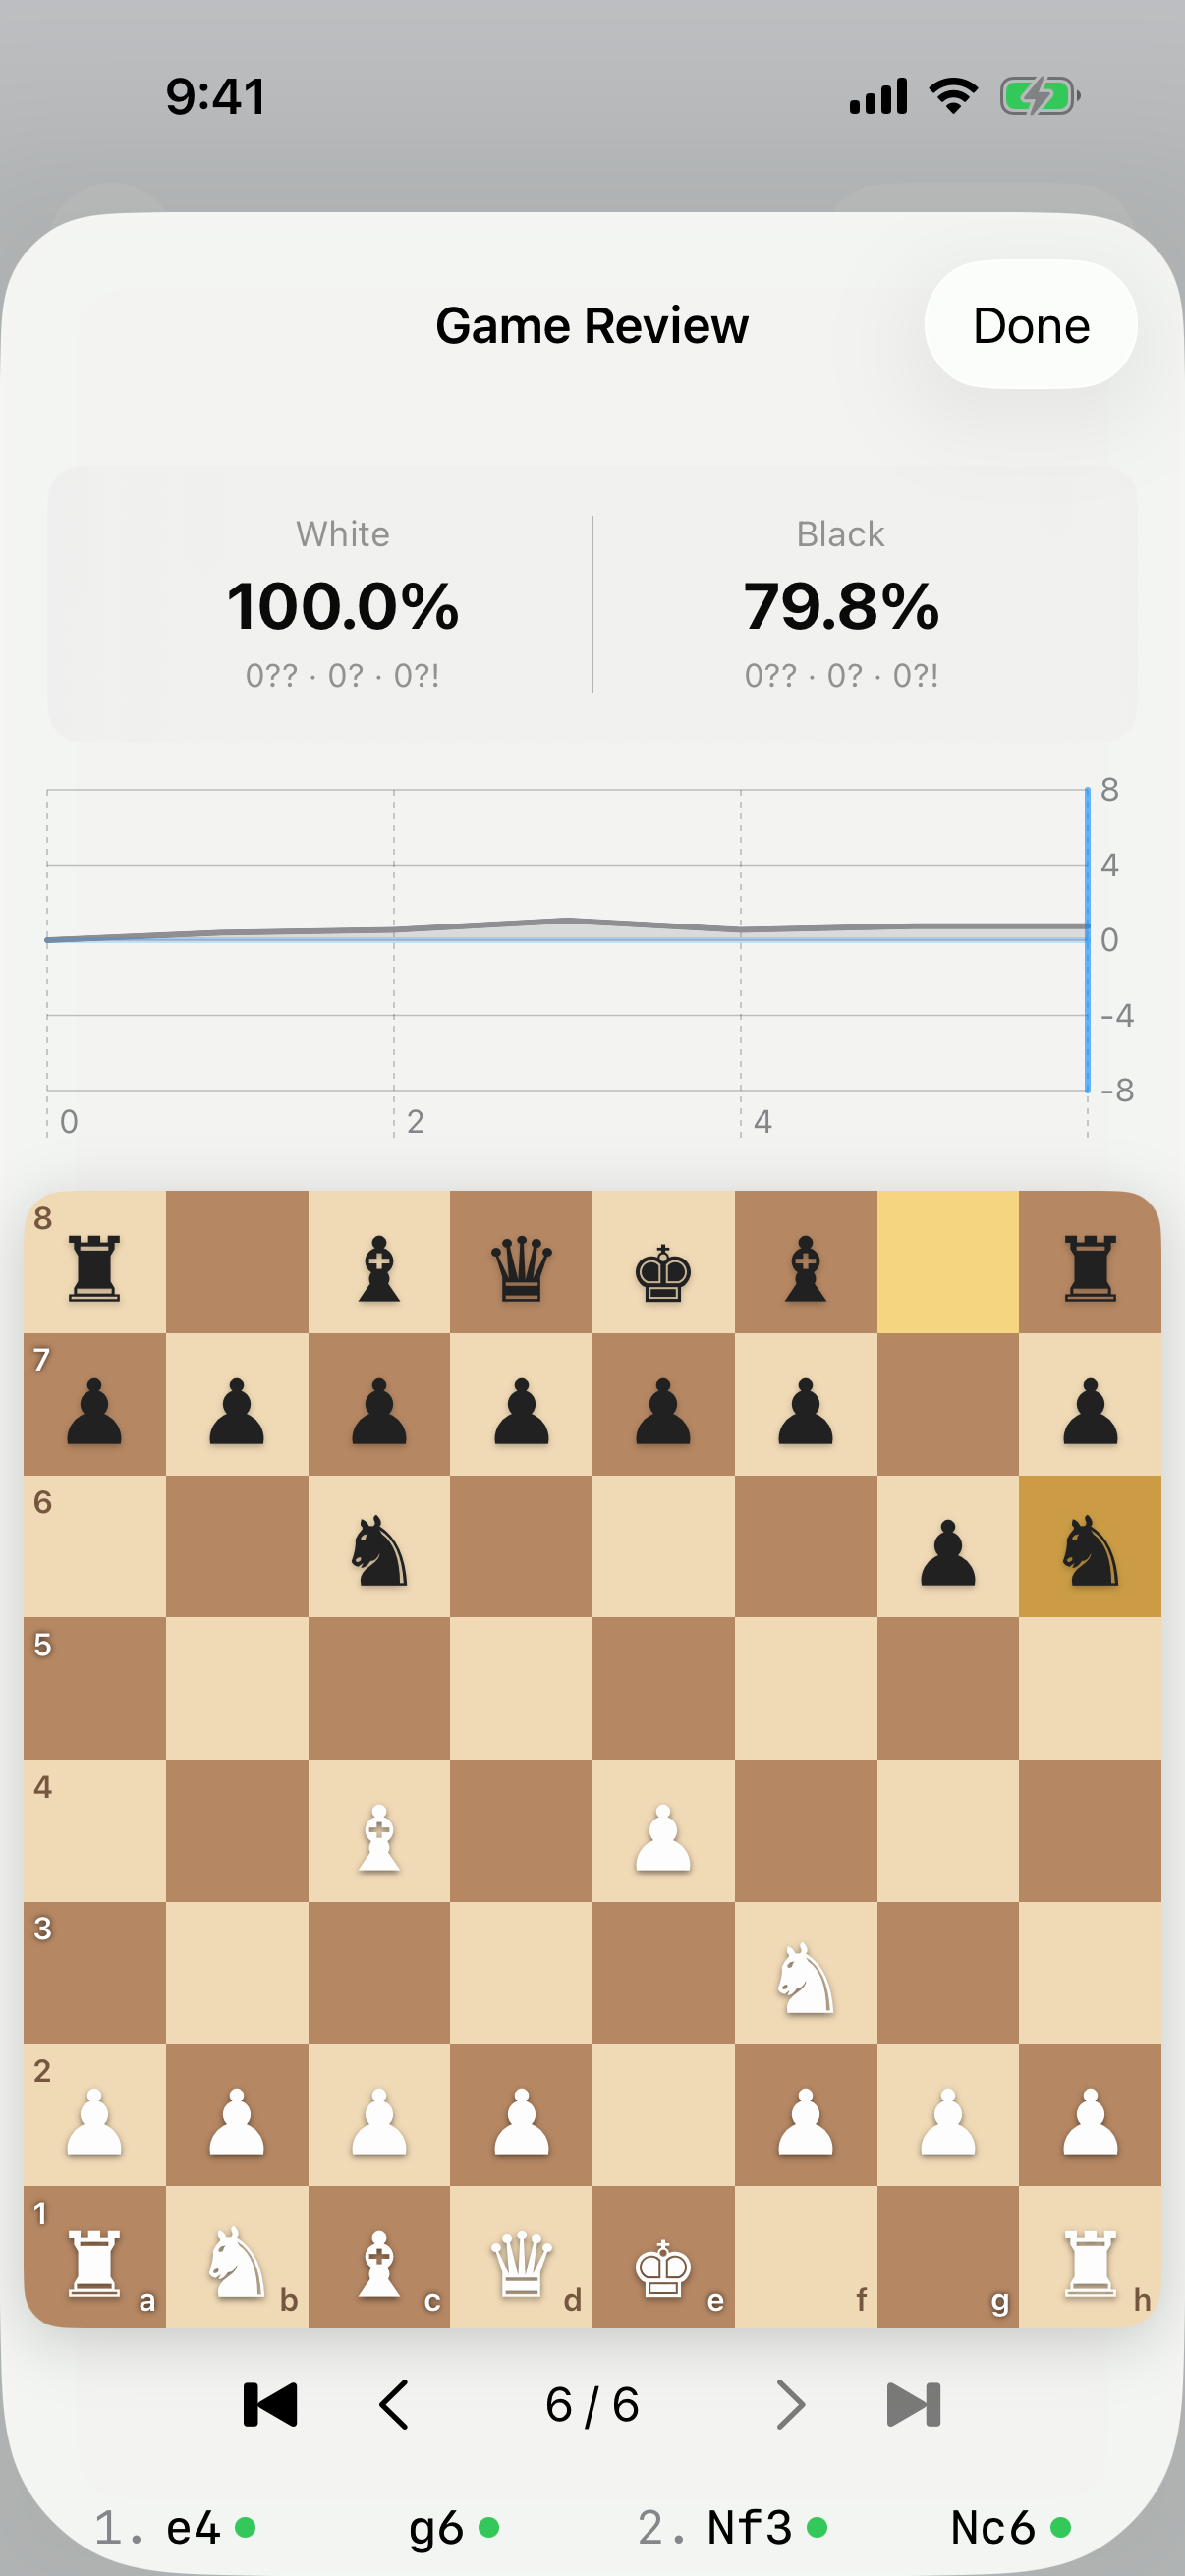
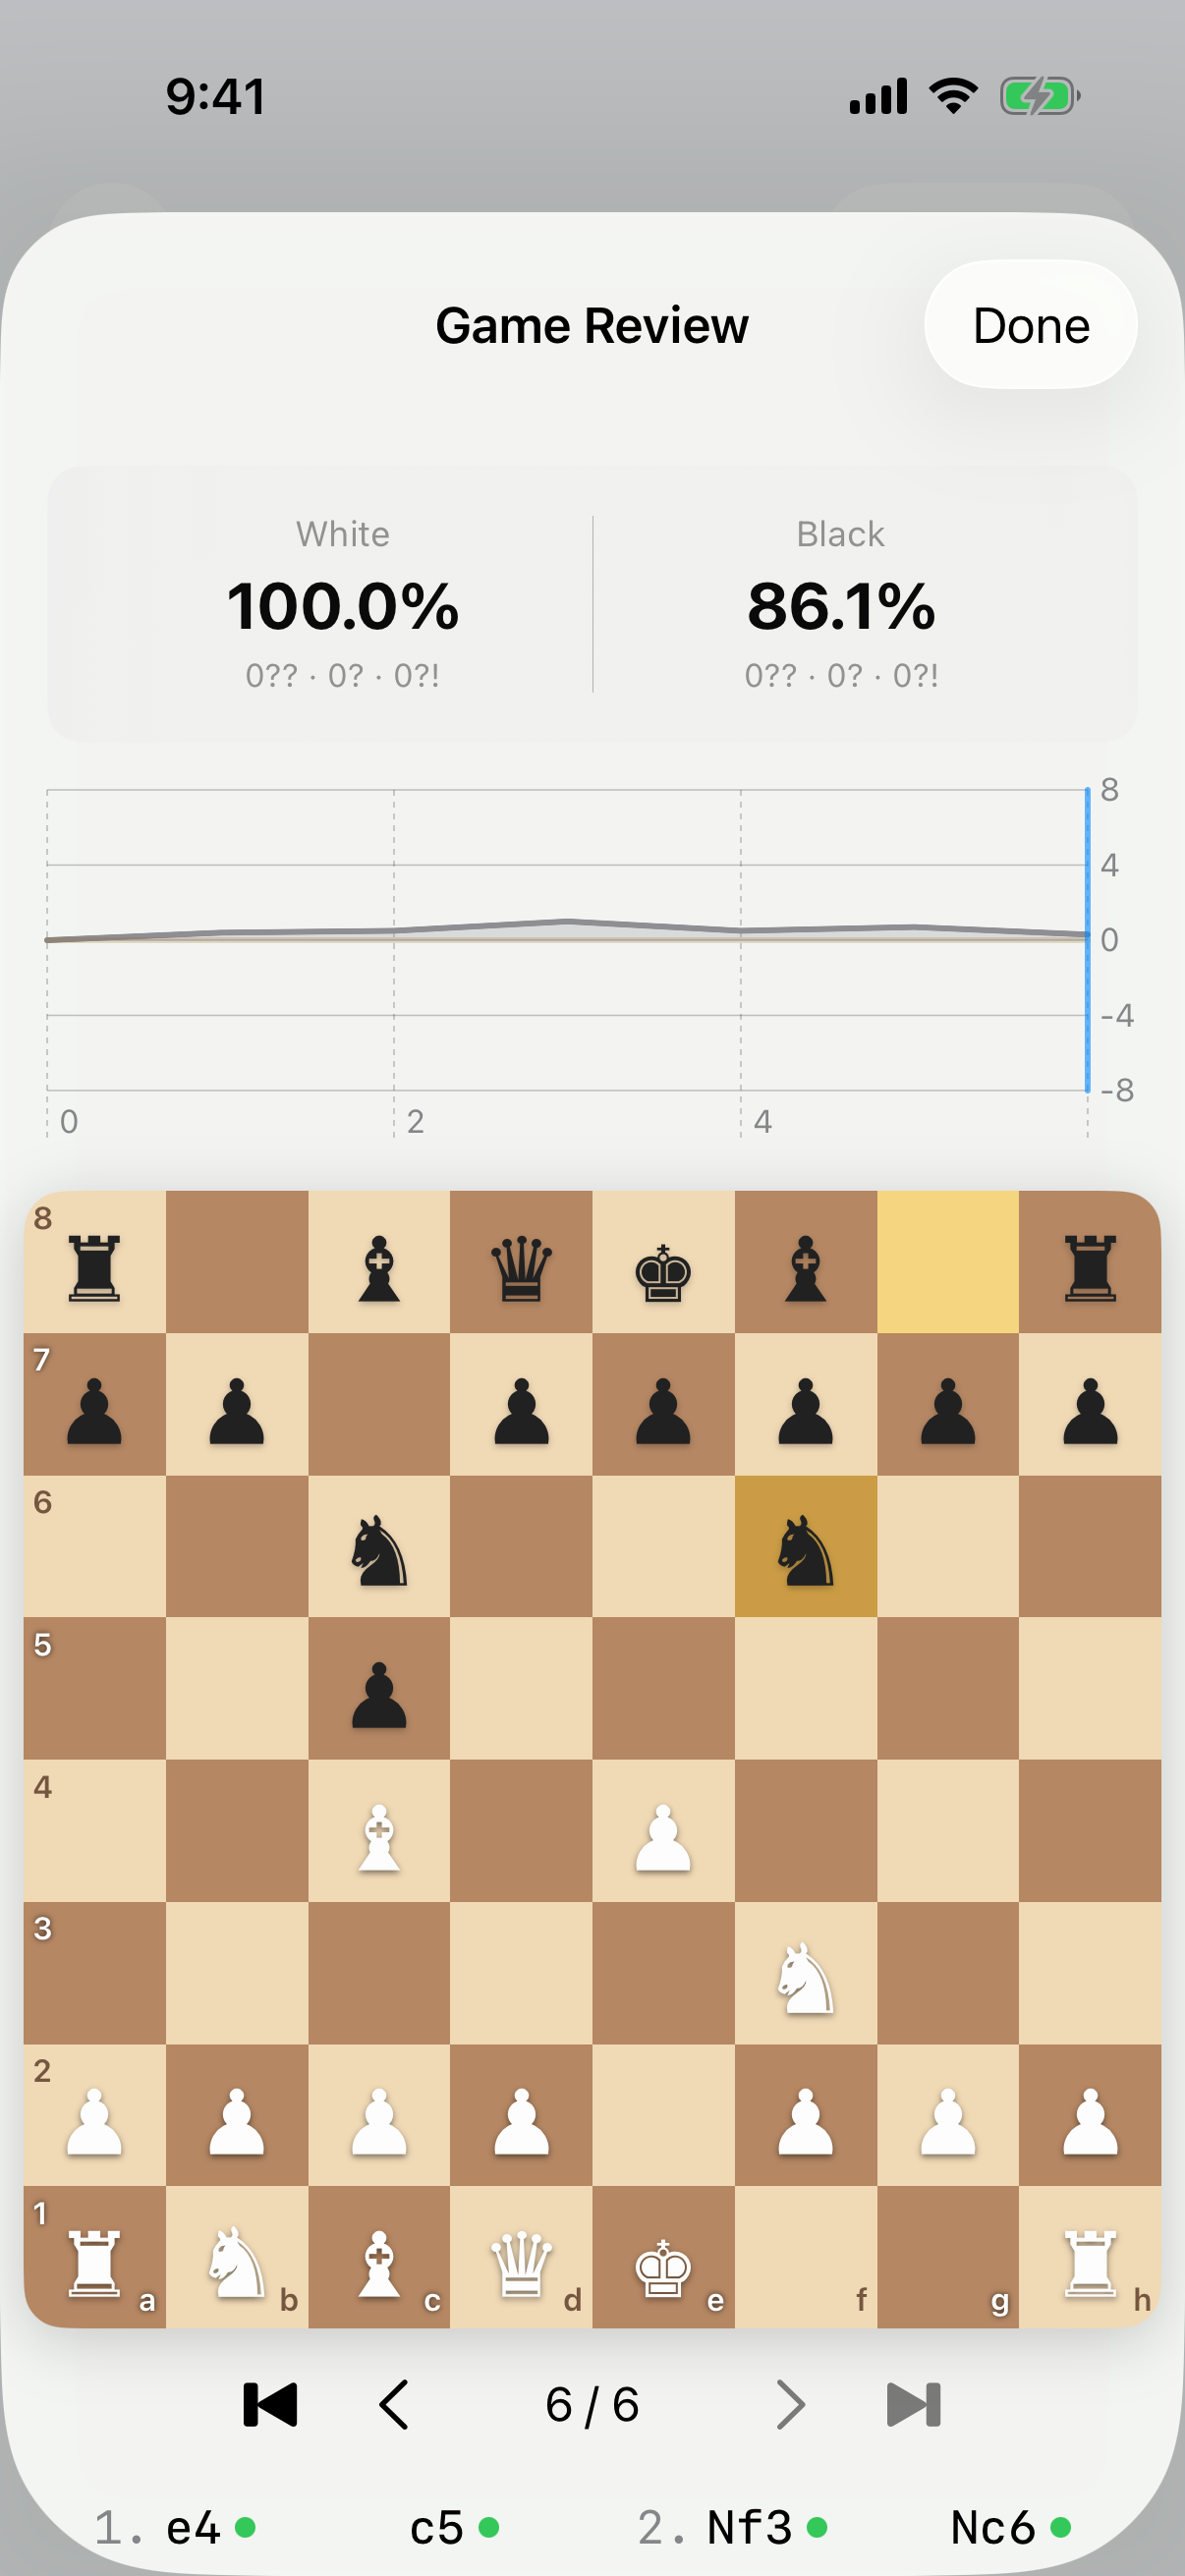
Add animated demo GIF to README (#144)
* Add animated demo GIF to README with dark-theme support

Replace the two static screenshots on the landing page with an animated
GIF that cycles through home, gameplay, and post-game review. Uses
GitHub's <picture> element with prefers-color-scheme to serve a
dark-background variant (the default) and a light one. Screenshots get
rounded corners for a cleaner look on both themes.

Claude-Session: https://claude.ai/code/session_01X1MaxG4RgWTAQnFe1GqNuy

* Screenshots: refresh simulator captures (screenshots.yml)

* Regenerate demo GIFs from fresh warm-classic screenshots

The Screenshots CI workflow captured the current UI (brass/gold accent,
cream background, board-theme tile swatches from #120/#124). Rebuild
both light and dark demo GIFs from those captures.

Claude-Session: https://claude.ai/code/session_01X1MaxG4RgWTAQnFe1GqNuy

---------

diff --git a/README.md b/README.md
@@ -17,9 +17,11 @@
 ---
 
 <p align="center">
-  <img src="docs/screenshots/screenshot-game.png" width="280" alt="Playing the engine">
-  &nbsp;&nbsp;
-  <img src="docs/screenshots/screenshot-review.png" width="280" alt="Post-game review">
+  <picture>
+    <source media="(prefers-color-scheme: light)" srcset="docs/demo-light.gif">
+    <source media="(prefers-color-scheme: dark)" srcset="docs/demo-dark.gif">
+    <img src="docs/demo-dark.gif" width="280" alt="MateMate demo — home, gameplay, and review">
+  </picture>
 </p>
 
 ## What you can do